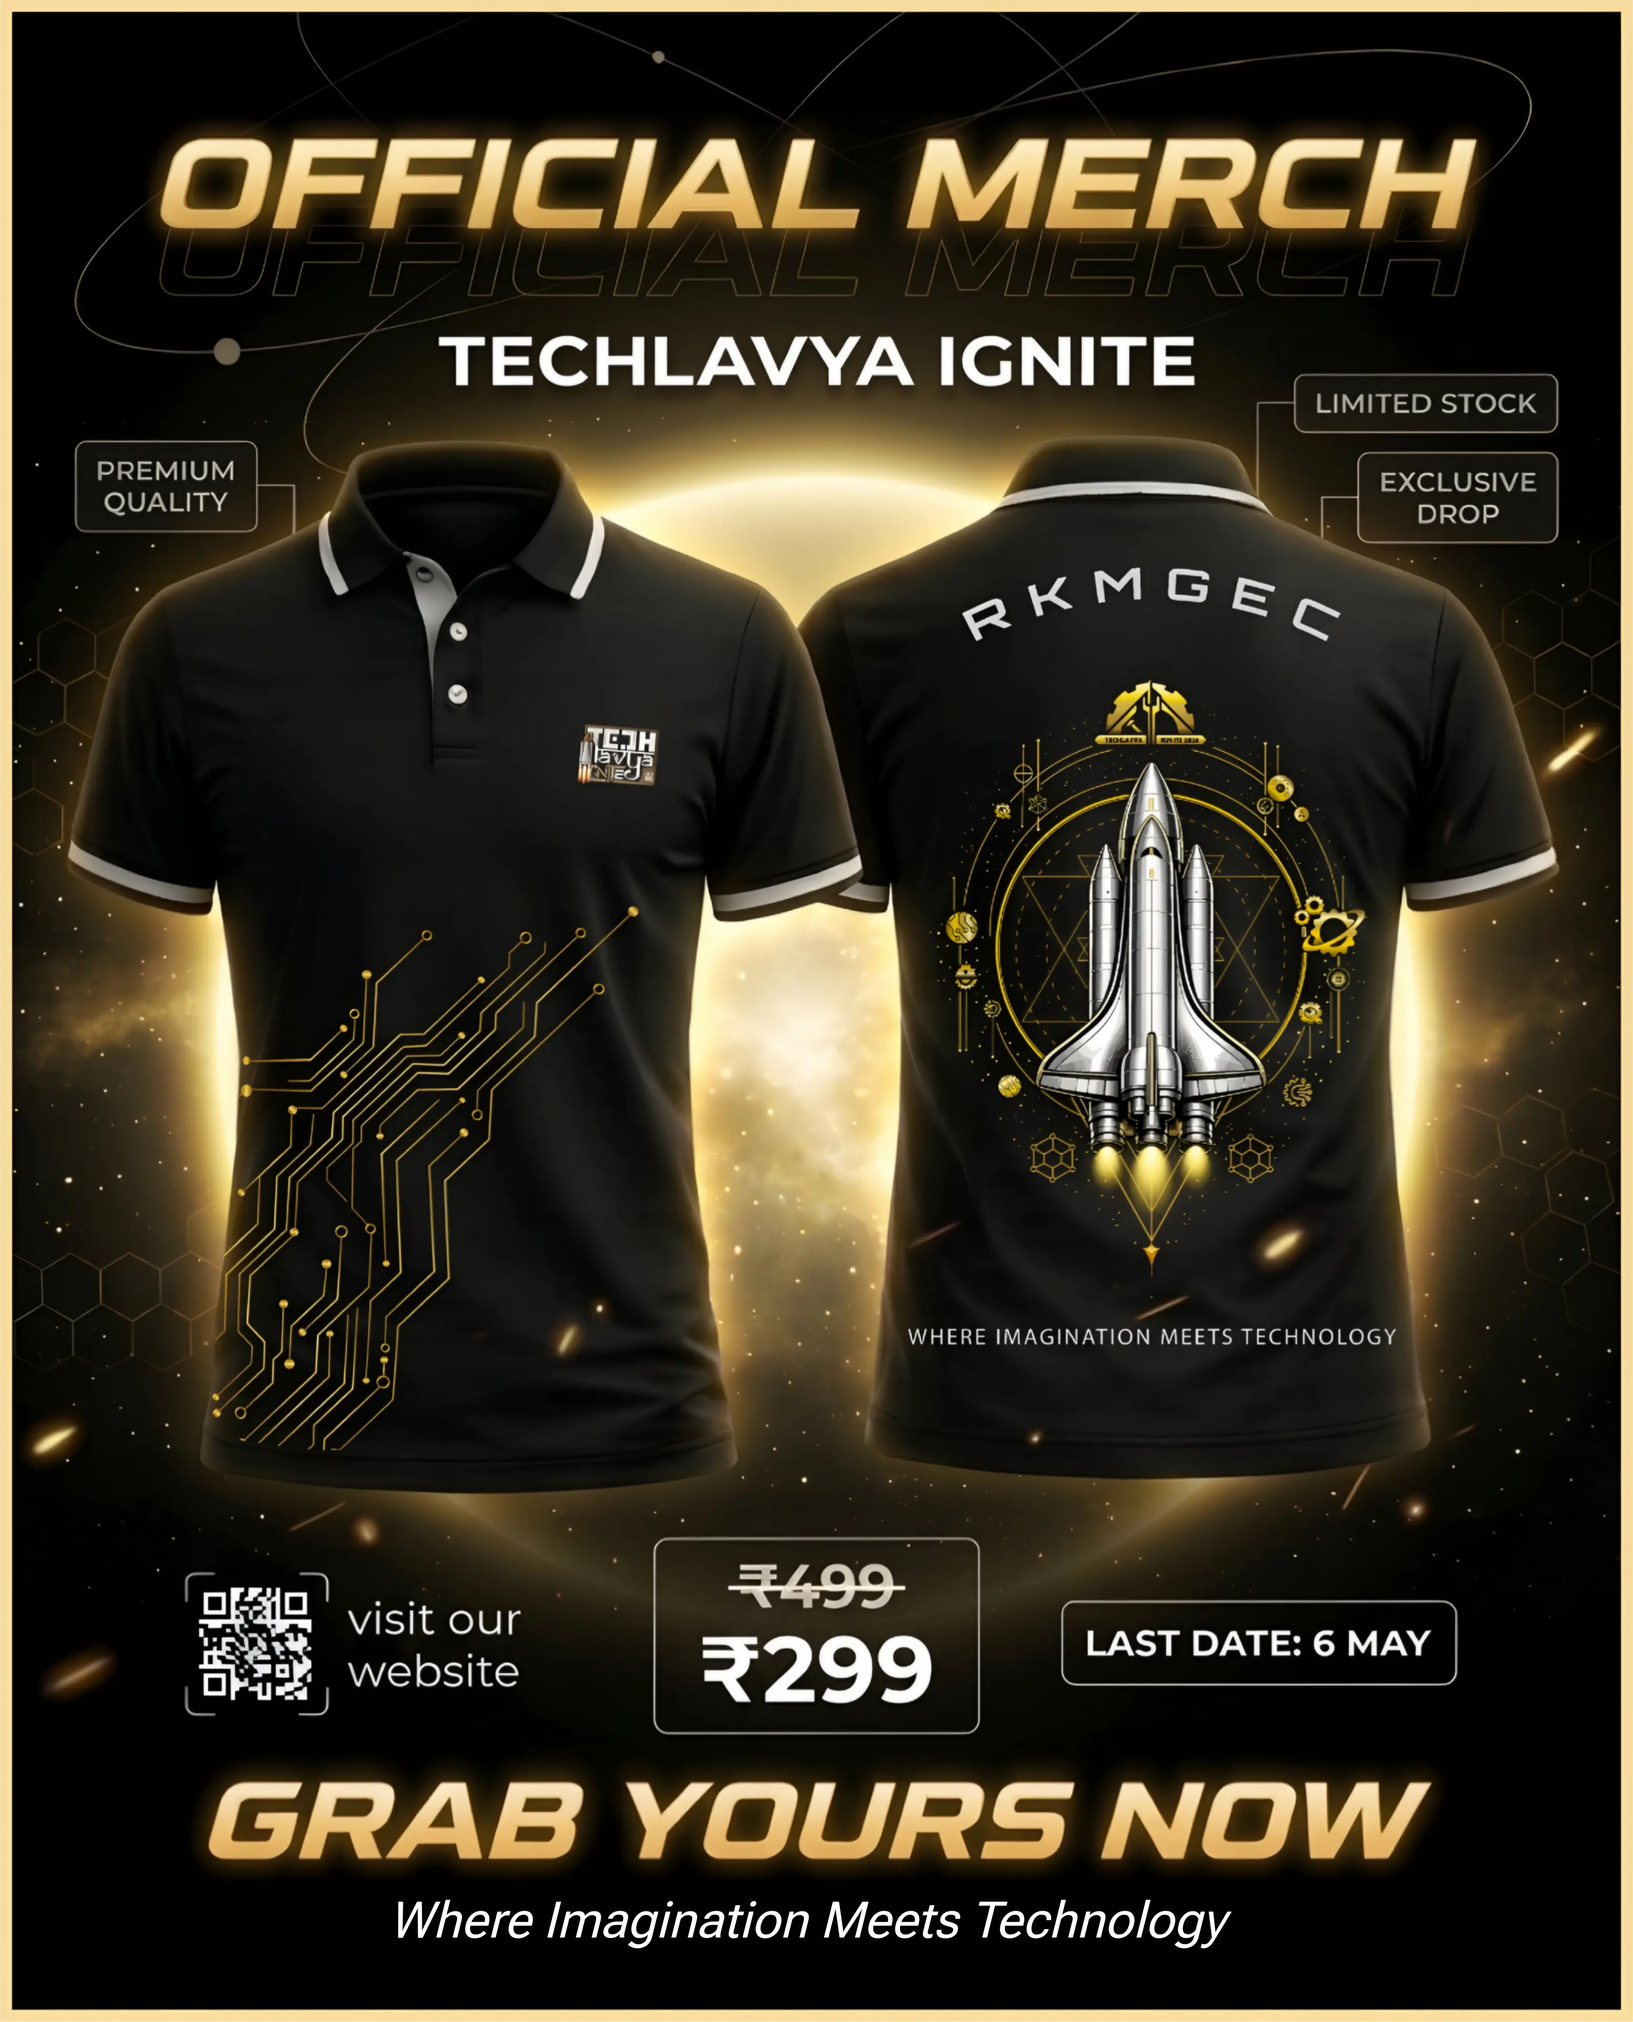
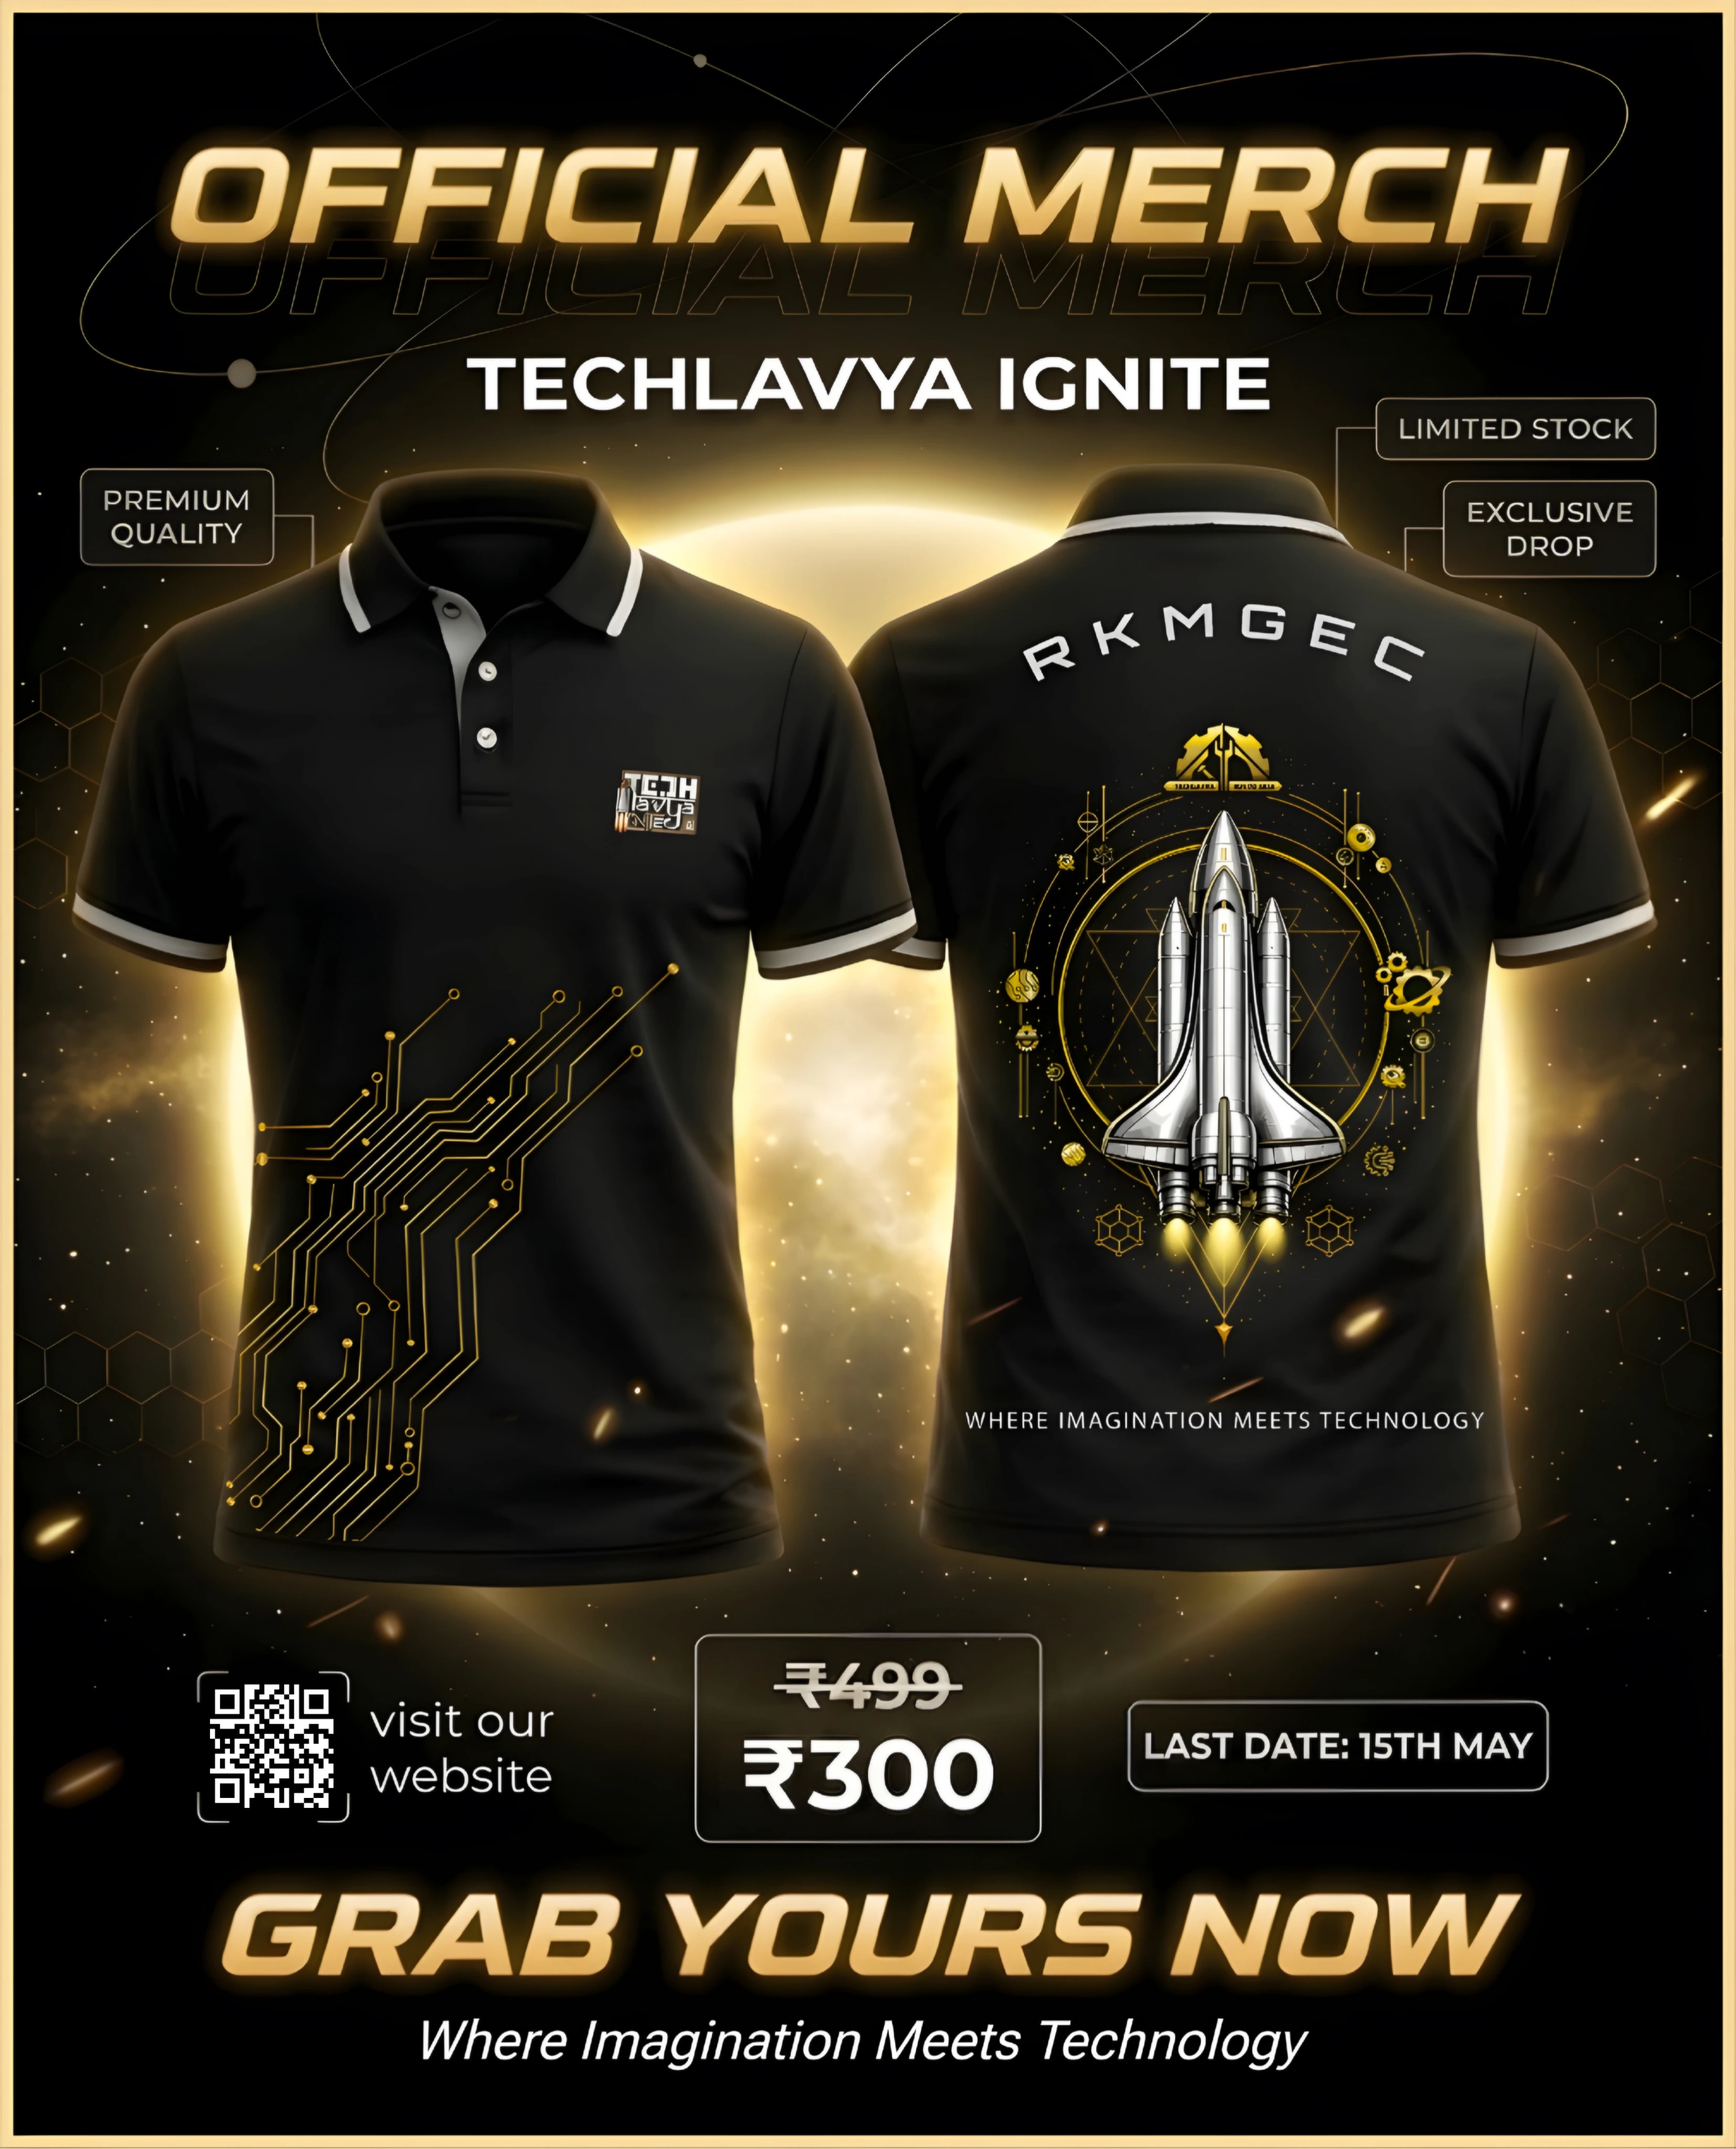
update the tshirt

diff --git a/src/components/home/TshirtSection.tsx b/src/components/home/TshirtSection.tsx
@@ -178,7 +178,7 @@ const TshirtSection = () => {
             <div className="space-y-6">
               <div className="flex items-baseline gap-2 md:gap-3">
                 <span className="text-2xl md:text-3xl font-bold text-highlight font-spaceGrotesk tracking-widest">
-                  ₹299
+                  ₹300
                 </span>
                 <span className="text-accent/40 line-through text-lg md:text-base font-kodeMono">
                   499
